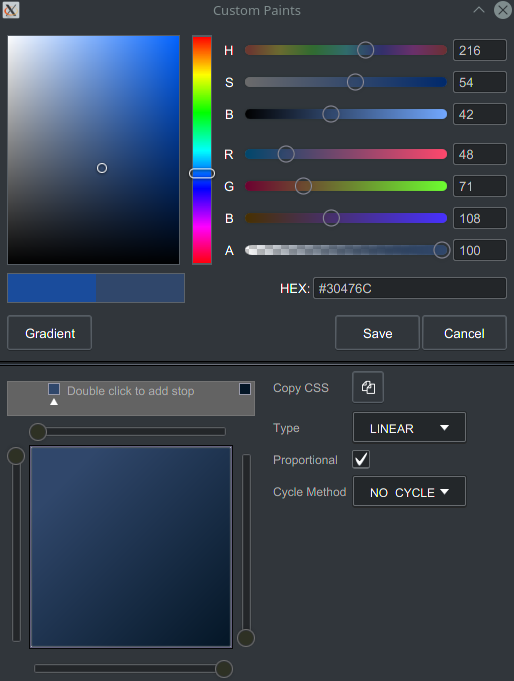
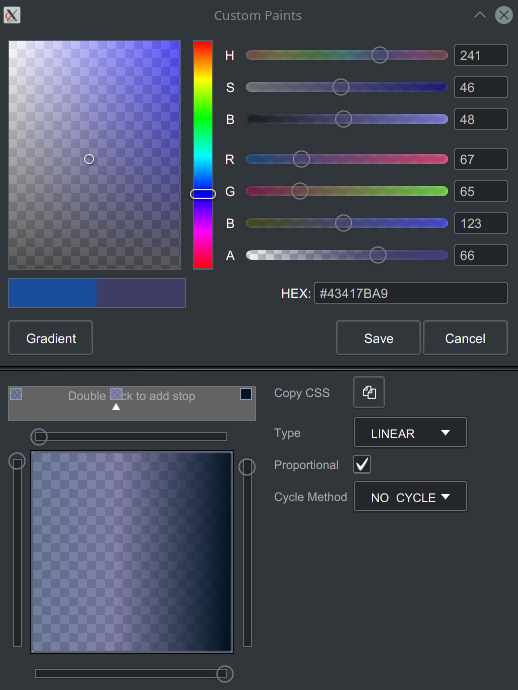
update screen shot

diff --git a/src/main/resources/styles/gradient_picker.css b/src/main/resources/styles/gradient_picker.css
@@ -151,6 +151,8 @@
     -fx-text-fill: #C2C2C3;
 }*/
 
+
+/*
 .gradient-slider .track {
     -fx-background-color: #232629;
     -fx-border-color: #616569;
@@ -172,5 +174,32 @@
 
 .gradient-slider .thumb {
     -fx-fill: #2E3134;
+}*/
+
+.gradient-slider .thumb  {
+    -fx-background-color: transparent;
+    -fx-border-color: #232629, #9899A9;
+    -fx-border-insets: .5;
+    -fx-border-radius: 1.83333333em;
+    -fx-pref-height: 18;
+    -fx-pref-width: 18;
+    /*-fx-background-radius: 1.0em; !* makes sure this remains circular *!*/
+    -fx-padding: 1em; /* !* 7 *!*/
+    -fx-effect: dropshadow(two-pass-box , rgba(0, 0, 0, 0.1), 5, 0.0 , 0, 2);
+}
+.gradient-slider .thumb:hover,
+.gradient-slider .thumb:focused {
+    -fx-background-color: transparent;
+    -fx-border-color: #232323, #0093FF;
+    -fx-border-insets: 0.5;
+    -fx-border-radius: 1.8333333em;
+    /*-fx-background-radius: 1.0em; !* makes sure this remains circular *!*/
 }
 
+.gradient-slider .track {
+    -fx-border-color: #676B6F;
+    -fx-effect: dropshadow(gaussian , #293133 , 5, 0.2 , 0 , .2 );
+    /*-fx-border-color: #31363b;*/
+    /*-fx-border-width: 1;*/
+    /*-fx-border-radius: 5;*/
+}
